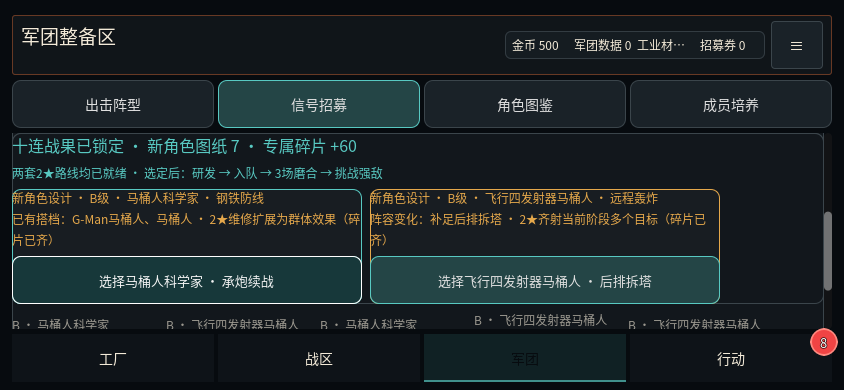
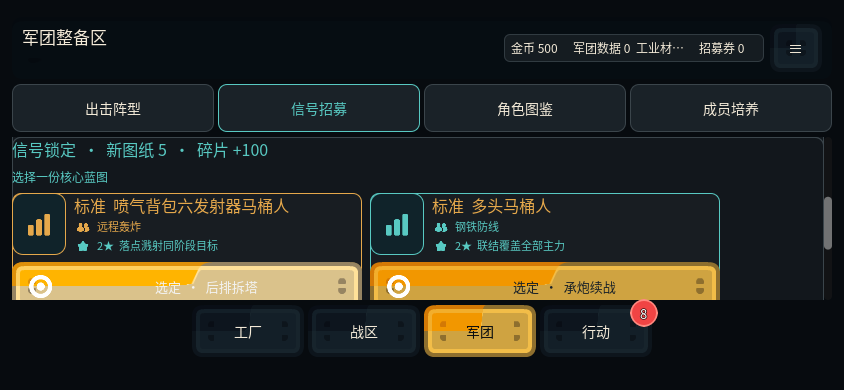
feat: turn faction recruitment into blueprint cards

diff --git a/docs/references/product-design/post-30m-faction-progression.md b/docs/references/product-design/post-30m-faction-progression.md
@@ -224,8 +224,9 @@ Tier 1 科技协议，再揭示第三章
   研发页以独立边框标出该型号，领取后自动滚到其编队候选，培养页持续显示“阵营核心”，升星成功
   必须点名实际解锁的质变，不能只反馈星级数字。
 - 免费十连后的首屏不能只剩抽象“二选一”。它必须汇总本次真实新图纸数和专属碎片总量，把两名
-  候选都标记为新角色设计与 2★ 就绪，并在两个选择按钮之前显示
-  “研发 → 入队 → 3场实战 → 质变突破”的短期旅程；十张明细仍保留在下方供玩家核对。
+  候选都做成图标主导的蓝图卡：评级与型号为主身份，阵营职责、2★能力分别配职责/星级图标，
+  选择动作使用统一目标图标且保持 48px；完整协同说明与
+  “研发 → 入队 → 3场磨合 → 挑战强敌”旅程放入 tooltip 渐进披露，十张明细仍保留在下方供玩家核对。
 - 刚领取的十连应有一次不超过 1 秒、不中断操作的揭晓节拍：战果标题先确认到账，两张阵营候选
   随后依次显露。该节拍只消费瞬时 UI 结果，不得控制抽取、选择或存档事实；刷新、返回和存档恢复
   直接显示完整结果，不重复演出。开启“减少动态”时必须完全跳过 Tween。844×390 与最短支持

diff --git a/docs/references/architecture/post-30m-faction-technical-design.md b/docs/references/architecture/post-30m-faction-technical-design.md
@@ -111,8 +111,9 @@ S 级一星强度由 `HeroProgression.derived_battle_stats()` 的评级基础倍
 
 - 玩家问题：这次抽到了谁，我的阵营可以向哪里发展？
 - 两秒答案：结果卡明确显示“新图纸”或“某型号专属碎片 +N”；未选择时顶部并排显示两个候选的
-  评级、阵营、真实现有搭档或待补战术、2★质变、碎片与48px选择动作，选择后才固定显示阵营核心
-  和当前研发/培养状态。协同摘要由当前 `roster` 与 `FactionCatalog` 即时投影，不写入存档或战力。
+  评级、阵营职责图标、2★质变图标与48px目标图标选择动作；真实现有搭档或待补战术和完整短期
+  旅程保留在卡片 tooltip，选择后才固定显示阵营核心和当前研发/培养状态。协同摘要由当前
+  `roster` 与 `FactionCatalog` 即时投影，不写入存档或战力。
 - 主行动：有新图纸时为“前往研究所研发”；已有可升星角色时为“查看并升星”。
 - 跨屏目标：领取后持续按“研发 → 编队 → 三场证明 → 2★ → 2-5”推进；目标中心与基地任务共享
   完全相同的小目标、CTA、stage_id 和 hero_id，后续普通招募不得覆盖阵营起手 receipt。
